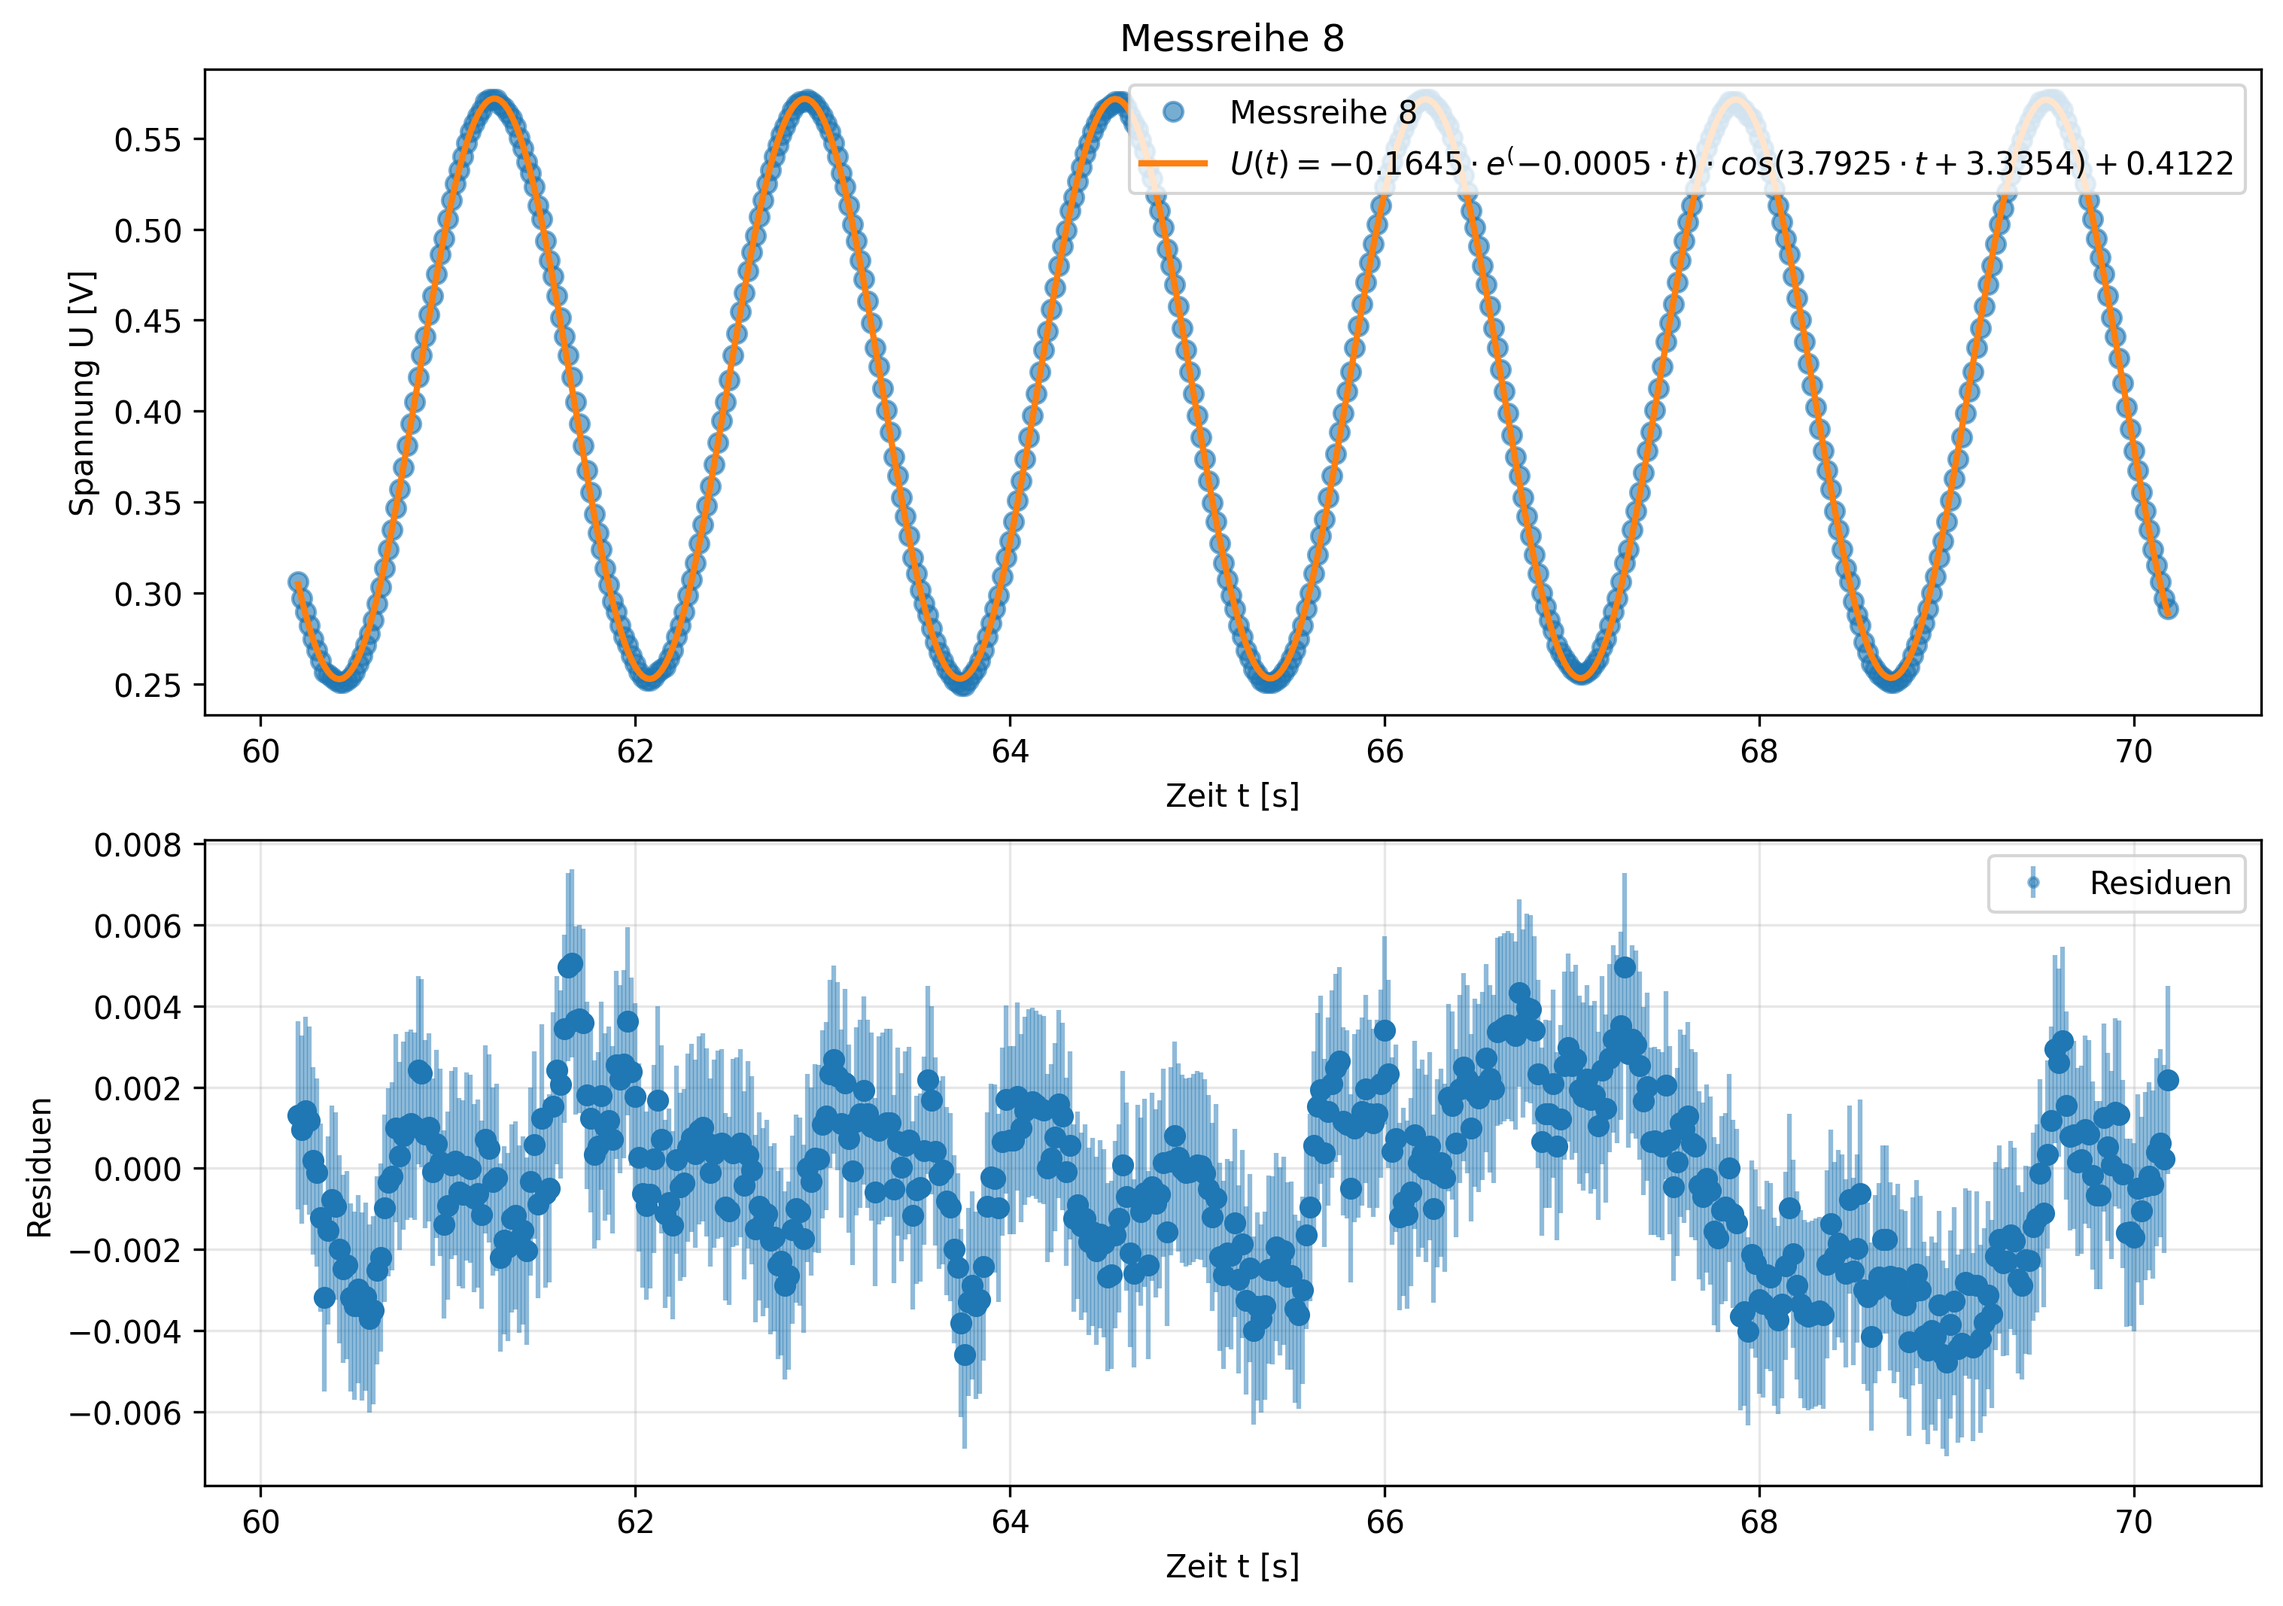
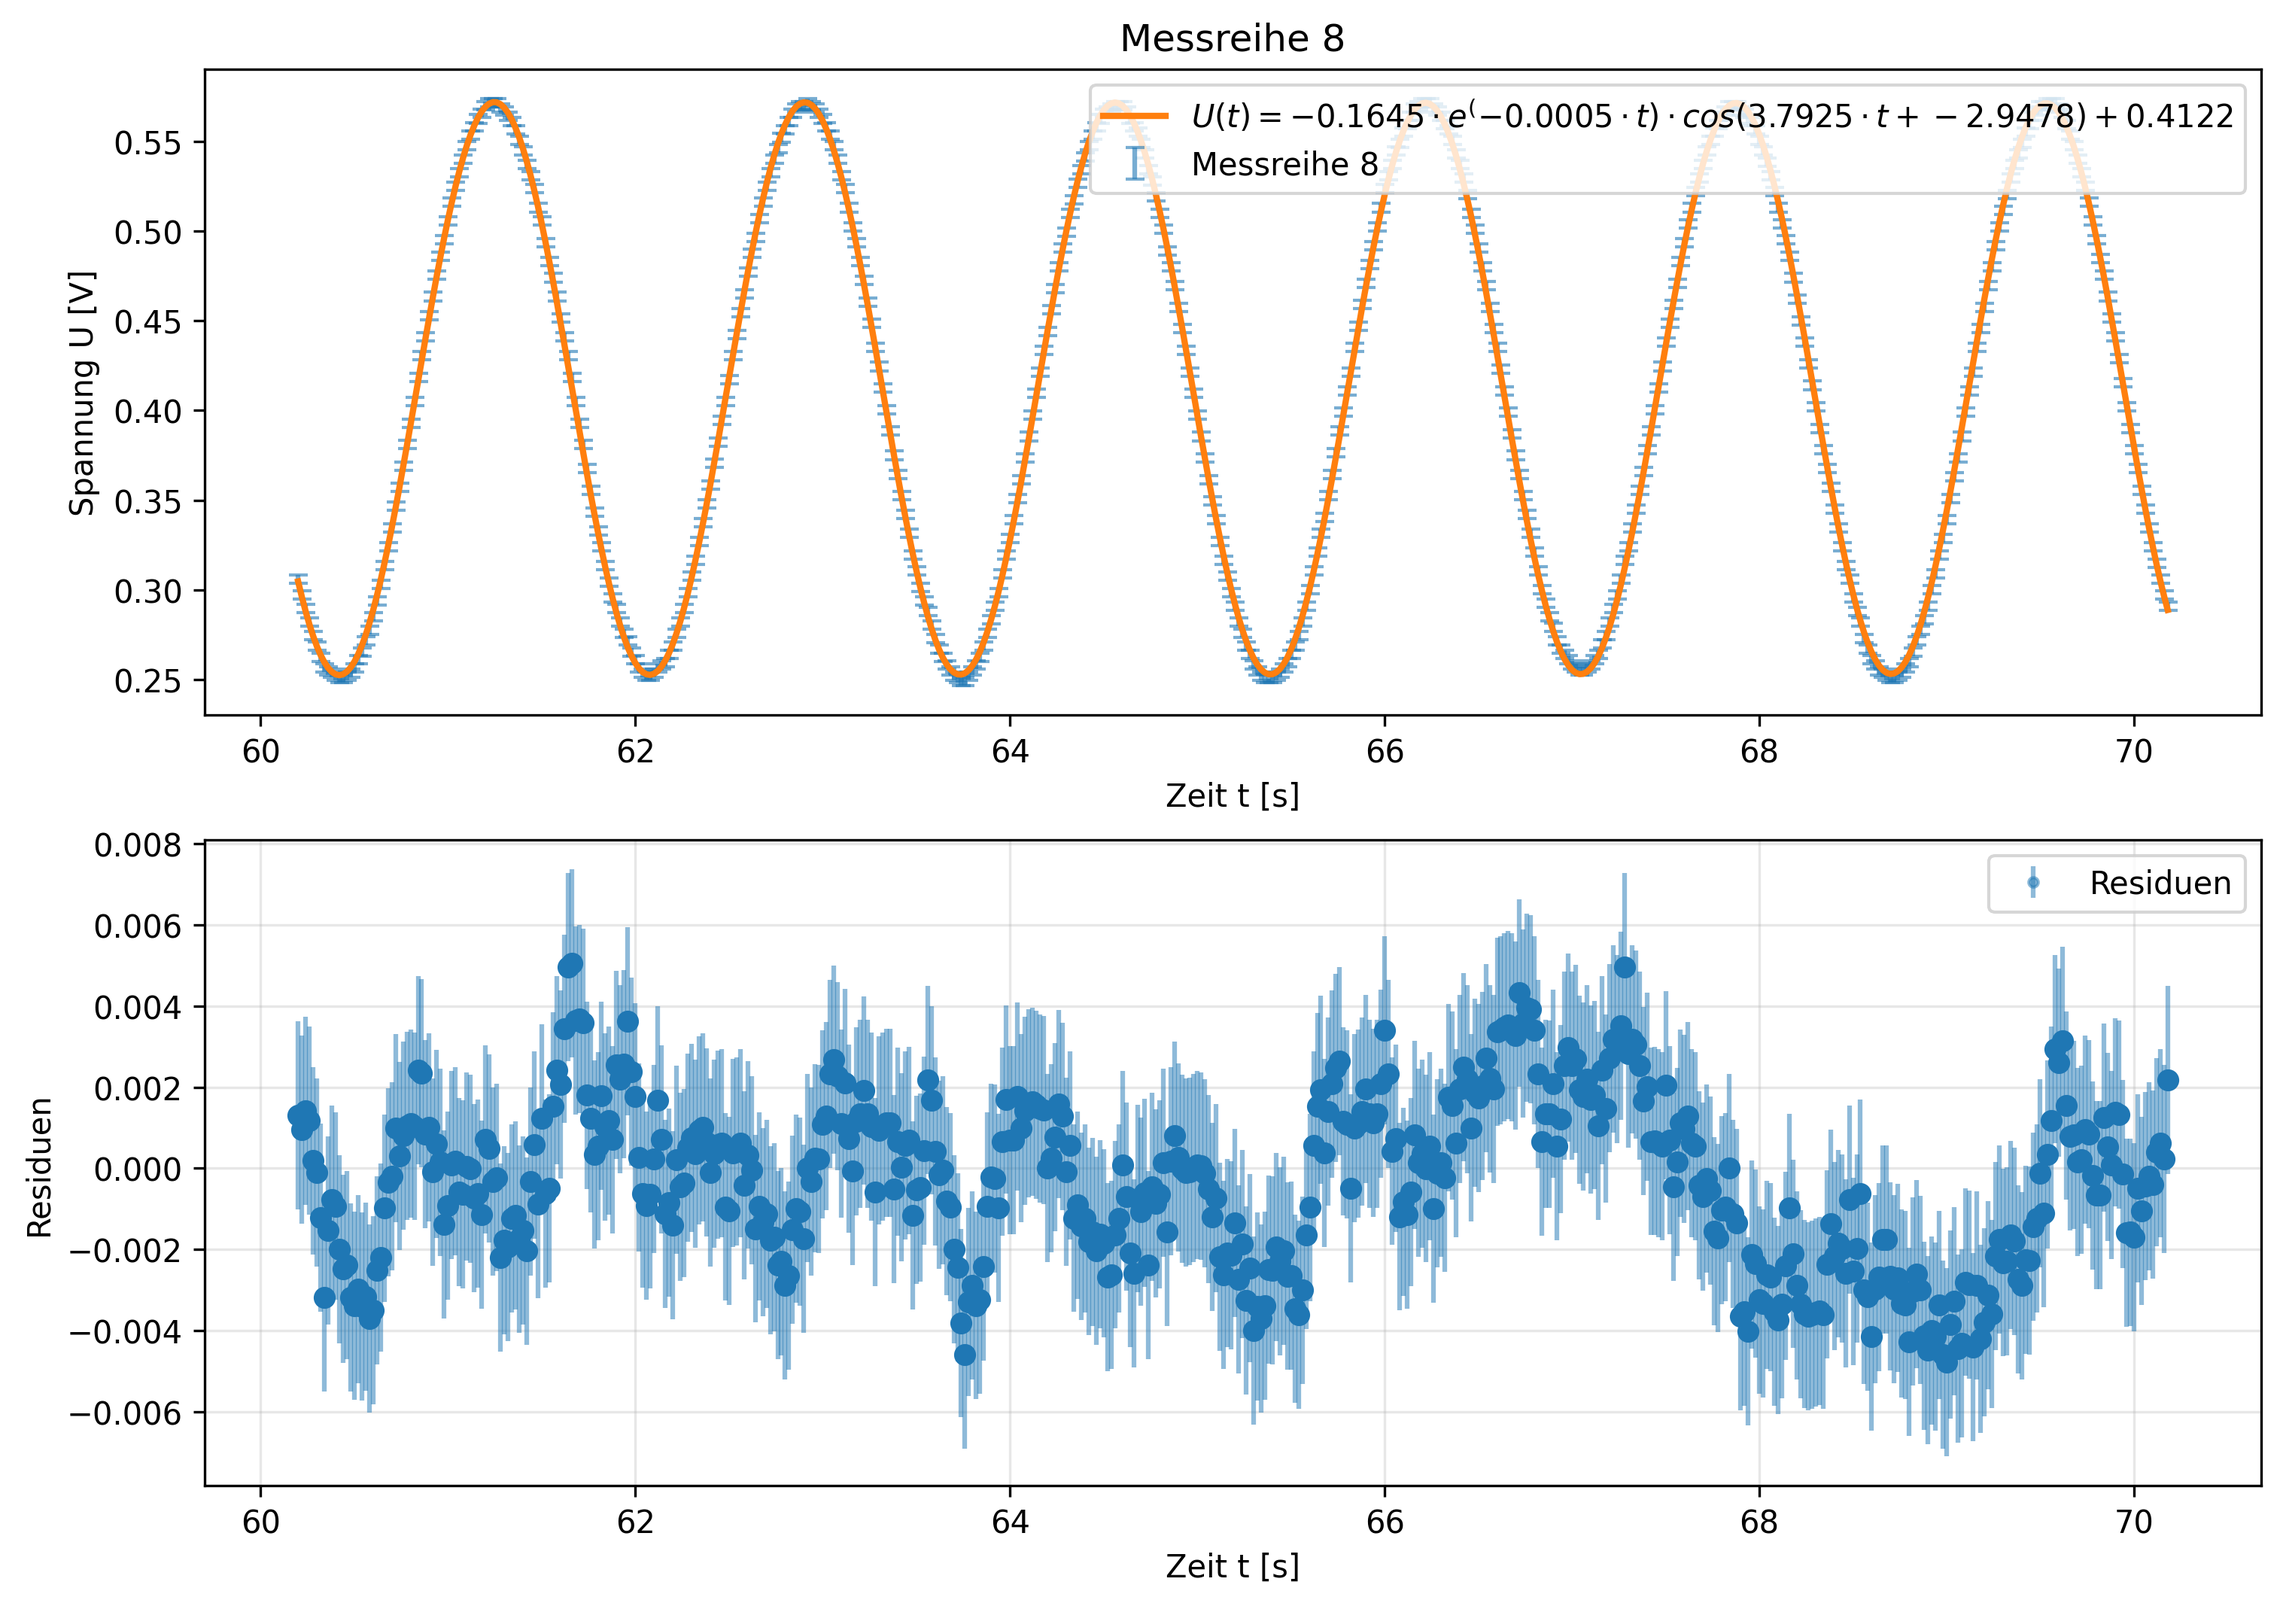
T statt omega

diff --git a/V2_Mechanik/Valentin/auswertung_valentin.py b/V2_Mechanik/Valentin/auswertung_valentin.py
@@ -40,8 +40,8 @@ def Periodebestimmen(DATEN, messreihe):
     t = messung.datenreihe('t').werte[10:]
     U = messung.datenreihe('U_B1').werte[10:]
     
-    def f(t, A, B, w, phi, y_0):
-        return A * np.exp(-B * t) * np.cos(w * t + phi) + y_0
+    def f(t, A, B, T, phi, y_0):
+        return A * np.exp(-B * t) * np.cos(2* np.pi / T * t + phi) + y_0
         
     popt, _ = curve_fit(f, t, U, p0=[U.max(), 0.1, 2 * np.pi, 0, np.mean(U)])
     
@@ -78,14 +78,14 @@ def auswertung_messreihe(DATEN, i, rausch_sigma=None, fit_trim=[0,-1], plot_inte
     t = messung.datenreihe('t').werte[fit_trim[0]:fit_trim[1]]
     U = messung.datenreihe('U_B1').werte[fit_trim[0]:fit_trim[1]]
 
-    def f(t, A, B, w, phi, y_0):
-        return A * np.exp(-B * t) * np.cos(w * t + phi) + y_0
+    def f(t, A, B, T, phi, y_0):
+        return A * np.exp(-B * t) * np.cos(2 * np.pi / T * t + phi) + y_0
     
     popt, pcov = curve_fit(f, t, U, p0=[U.max(), 0.1, 2 * np.pi, 0, np.mean(U)], sigma=rausch_sigma, absolute_sigma=True)
-    werr = np.sqrt(pcov[2,2])
+    Terr = np.sqrt(pcov[2,2])
     
-    A_fit, B_fit, w_fit, phi_fit, y_0_fit = popt
-    T_fit = 2 * np.pi / w_fit
+    A_fit, B_fit, T_fit, phi_fit, y_0_fit = popt
+    w_fit = 2 * np.pi / T_fit
     
     fit = f(t, *popt)
     
@@ -97,8 +97,8 @@ def auswertung_messreihe(DATEN, i, rausch_sigma=None, fit_trim=[0,-1], plot_inte
     
     # print(f'U_0 = {A_fit:.4f}')
     # print(f'delta = {B_fit:.4f}')
-    print(f'w = ({w_fit:.4f}+-{werr})')
-    print(f'T = {T_fit:.4f}')
+    print(f'w = ({w_fit:.4f})')
+    print(f'T = ({T_fit:.4f} +/- {Terr})')
     # print(f'phi = {phi_fit:.4f}')
     # print(f'y_0 = {y_0_fit:.4f}')
     print(f'Chiq / dof = {chiq/dof}')
@@ -109,10 +109,12 @@ def auswertung_messreihe(DATEN, i, rausch_sigma=None, fit_trim=[0,-1], plot_inte
         figsize=(10,7),
         constrained_layout=True
     )
-    ax.plot(
+    ax.errorbar(
         t[plot_intervall[0]:plot_intervall[1]],
         U[plot_intervall[0]:plot_intervall[1]],
-        marker='o',
+        fmt='',
+        capsize=3,
+        yerr=rausch_sigma,
         ls='',
         label=f'Messreihe {i}',
         color='tab:blue',
@@ -153,7 +155,7 @@ def auswertung_messreihe(DATEN, i, rausch_sigma=None, fit_trim=[0,-1], plot_inte
     rs.legend(loc='upper right')
     fig.savefig(OUTPUT / f'MessungPlusFit{i}', dpi=300, bbox_inches='tight')
     plt.close(fig)
-    return w_fit, chiq/dof, werr
+    return T_fit, chiq/dof, Terr
 
 perioden_om   = []
 ergebnisse_om = []
@@ -169,8 +171,8 @@ for DATEN in DATEN_Pendel_mit_Masse:
     ergebnisse_mm.append(ergebnis)
     perioden_mm.append(ergebnis[2])
 
-def f(t, A, B, w, phi, y_0):
-        return A * np.exp(-B * t) * np.cos(w * t + phi) + y_0
+def f(t, A, B, T, phi, y_0):
+        return A * np.exp(-B * t) * np.cos(2 * np.pi / T * t + phi) + y_0
     
 fig, ax = plt.subplots(figsize=(10,7), constrained_layout=True)
 t = CassyDaten(DATEN_Periodenangleich_om_1).messung(1).datenreihe('t').werte
@@ -228,7 +230,8 @@ print(l1)
 print(l2)
 print(d_p)
 print(l_p)
-omegas = []
+
+Ts = []
 chiqs  = []
 g_vals = []
 g_errs = []
@@ -236,21 +239,21 @@ for i in range(1, 11):
 
     fit_daten = auswertung_messreihe(DATEN_Messreihen, i, plot_intervall=[3000,3500], fit_trim=[trim_vorne,-1], rausch_sigma=sigma_ges)
 
-    w = un.ufloat(fit_daten[0], fit_daten[2])
-    g = w**2 * (l_p / 1000) * (1 + (1/8) * ((d_p/1000) / (l_p/1000))**2)
+    T = un.ufloat(fit_daten[0], fit_daten[2])
+    g = 4 * np.pi**2 / T**2 * (l_p / 1000) * (1 + (1/8) * ((d_p/1000) / (l_p/1000))**2)
     
     print(g)
     
-    omegas.append(fit_daten[0])
+    Ts.append(fit_daten[0])
     chiqs.append(fit_daten[1])
     g_vals.append(g.n)
     g_errs.append(g.s)
 
-omega_mean = np.mean(omegas)
-omega_std  = np.std(omegas, ddof=1)
+T_mean = np.mean(Ts)
+T_std  = np.std(Ts, ddof=1)
 
-# g aus gemitteltem omega
-g_mean = (omega_mean**2 * (l_p.n / 1000) * (1 + (1/8) * ((d_p.n / 1000) / (l_p.n / 1000))**2))
+# g aus gemitteltem T
+g_mean = (4 * np.pi**2 / T_mean**2 * (l_p.n / 1000) * (1 + (1/8) * ((d_p.n / 1000) / (l_p.n / 1000))**2))
 
 # Fehler aus Streuung der Messreihen
 g_std = np.std(g_vals, ddof=1)
@@ -260,7 +263,7 @@ g_stat = g_std / np.sqrt(len(g_vals))
 g_fit = (np.sqrt(np.sum(np.array(g_errs)**2)) / len(g_errs))
 
 # Gemeinsamer Fehler von l_p und d_p
-g_l_d = (un.ufloat(omega_mean, 0)**2 * (l_p / 1000) * (1 + (1/8) * ((d_p/1000) / (l_p/1000))**2))
+g_l_d = (4 * np.pi**2 / T_mean**2 * (l_p / 1000) * (1 + (1/8) * ((d_p/1000) / (l_p/1000))**2))
 
 g_l_d_err = g_l_d.s
 
@@ -268,7 +271,7 @@ g_l_d_err = g_l_d.s
 g_ges = np.sqrt(g_stat**2 + g_fit**2 + g_l_d_err**2)
 
 # Ausgabe
-print(f'\nomega = ({omega_mean:.4f} +/- {omega_std:.4f}) 1/s')
+print(f'\nT = ({T_mean:.4f} +/- {T_std:.4f}) s')
 
 print(f'g_mean = {g_mean:.6f} m/s²')
 print(f'g_stat = {g_stat:.6f} m/s²')
